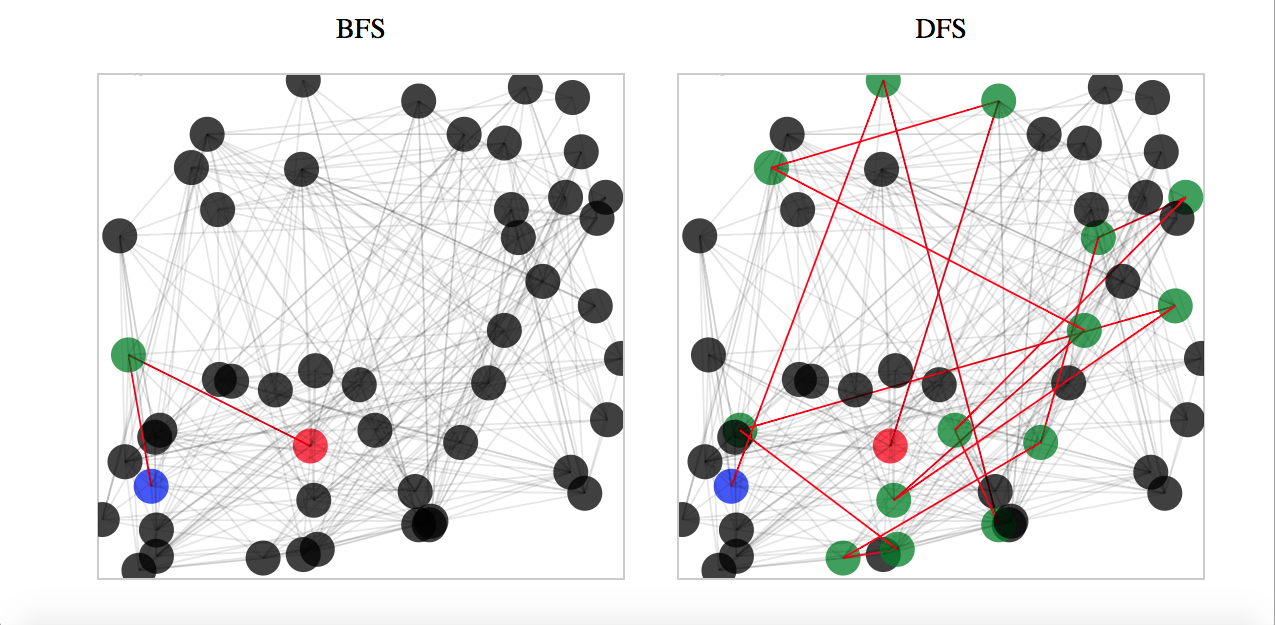
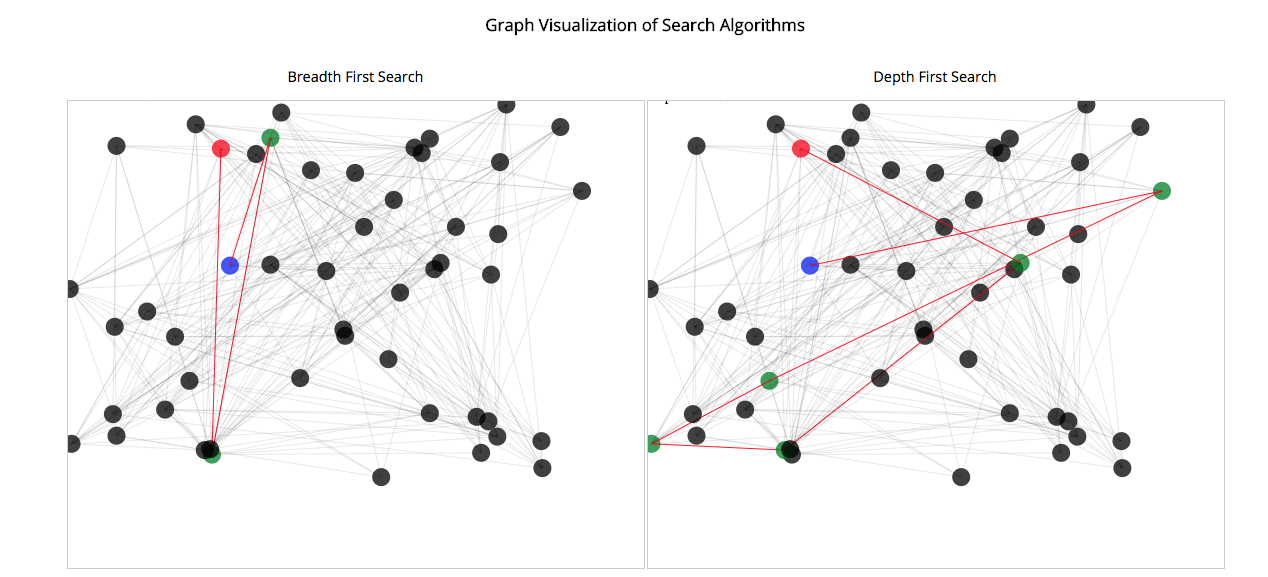
changed screenshot in readme, restyled code

diff --git a/index.html b/index.html
@@ -1,22 +1,23 @@
 <!DOCTYPE html>
-<html style="width:100%; height:100%">
+<html>
     <head>
         <link rel="stylesheet" type= "text/css" href="./style.css">
+        <link href="https://fonts.googleapis.com/css?family=Open+Sans" rel="stylesheet">
         <script src="https://d3js.org/d3.v4.min.js"></script>
         <script type="text/javascript" src="http://ajax.googleapis.com/ajax/libs/jquery/1.7.0/jquery.min.js"></script>
         <script src="./graphGenerator.js"></script>
         <script src="./queue.js"></script>
     </head>
 
-    <body style="width:100%; height:100%">
-        <!--<h3 id="title">Graph Visualization</h3>-->
-        <div style= "width: 100%; height: 100%; text-align: center">
-            <div style= "display: inline-block; height: 100%; width: 45%">
-                <p>BFS</p>
+    <body>
+        <h3 id="title">Graph Visualization of Search Algorithms</h3>
+        <div class='search'>
+            <div class='graph-container'>
+                <p>Breadth First Search</p>
                 <svg id= "graphSpace0" height= "80%"></svg>
             </div>
-            <div style= "display: inline-block; height:100%; width:45%">
-                <p>DFS</p>
+            <div class='graph-container'>
+                <p>Depth First Search</p>
                 <svg id= "graphSpace1" height= "80%"></svg>
             </div>
         </div>
@@ -40,11 +41,11 @@
                     endNode= settled.get(endNode);
                     if (endNode != null) {
                         var id= x * endNode.cx + y * endNode.cy;
-                        if (type === "d") {
-                            id= "d"+ id;
+                        if (type === "depth") {
+                            id= "depth"+ id;
                         }
                         else {
-                            id= "b"+ id;
+                            id= "breadth"+ id;
                         }
                         $("#"+id).css("stroke", "red");
                         $("#"+id).css("opacity", 1);
@@ -61,11 +62,11 @@
                 frontier.push(startNode);
                 while (!frontier.isEmpty()) {
                     var f= frontier.pop();
-                    if (f == endNode) {return endDisplay(path(settled, f, "d"), "d");}
+                    if (f == endNode) {return endDisplay(path(settled, f, "depth"), "depth");}
                     neighbors= graph.get(f);
                     for (let n of neighbors) {
                         var id= (f.cx * n.cx) + (f.cy * n.cy);
-                        id= "d"+ id;
+                        id= "depth"+ id;
                         $("#"+id).css("stroke", "magenta");
                         $("#"+id).css("opacity", 1);
                         await sleep(30);
@@ -89,11 +90,11 @@
                 frontier.enqueue(startNode, 0);
                 while (!frontier.isEmpty()) {
                     var f= frontier.dequeue();
-                    if (f == endNode) {return endDisplay(path(settled, f, "b"), "b");}
+                    if (f == endNode) {return endDisplay(path(settled, f, "breadth"), "breadth");}
                     neighbors= graph.get(f);
                     for (let n of neighbors) {
                         var id= (f.cx * n.cx) + (f.cy * n.cy);
-                        id= "b"+ id;
+                        id= "breadth"+ id;
                         $("#"+id).css("stroke", "magenta");
                         $("#"+id).css("opacity", 1);
                         await sleep(30);
@@ -119,21 +120,21 @@
             function main(nodes, graph) {
                 //create two identical graphs for search comparison
                 var svgBFS= d3.select("#graphSpace0");
-                svgBFS.append("text").text("BFS");
+                svgBFS.append("text").text("Breadth First Search");
                 var svgDFS= d3.select("#graphSpace1");
-                svgDFS.append("text").text("DFS");
+                svgDFS.append("text").text("Depth First Search");
                 for (var [node, edges] of graph) {
                     nodes.push(node);
                     var cx= node.cx;
                     var cy= node.cy;
                     svgBFS.append("circle")
-                    .attr("id", "b" + cantorPairing(cx, cy))
+                    .attr("id", "breadth" + cantorPairing(cx, cy))
                     .attr("cx", cx)
                     .attr("cy", cy)
                     .attr("r", 10)
                     .attr("fill", "black");
                     svgDFS.append("circle")
-                    .attr("id", "d" + cantorPairing(cx, cy))
+                    .attr("id", "depth" + cantorPairing(cx, cy))
                     .attr("cx", cx)
                     .attr("cy", cy)
                     .attr("r", 10)
@@ -145,7 +146,7 @@
                         var id= (cx * n.cx) + (cy * n.cy);
                         if (!ids.has(id)) {
                             line_b.append("line")
-                            .attr("id", "b"+ id)
+                            .attr("id", "breadth"+ id)
                             .attr("x1", cx)
                             .attr("y1", cy)
                             .attr("x2", n.cx)
@@ -153,7 +154,7 @@
                             .attr("stroke", "black")
                             .attr("opacity", .1)
                             line_d.append("line")
-                            .attr("id", "d"+ id)
+                            .attr("id", "depth"+ id)
                             .attr("x1", cx)
                             .attr("y1", cy)
                             .attr("x2", n.cx)
@@ -179,11 +180,11 @@
                 for (var i= 0; i < path.length; i++) {
                     var node= path[i];
                     var id= cantorPairing(node.cx, node.cy);
-                    if (type === ("d")) {
-                        id= "d"+ id;
+                    if (type === ("depth")) {
+                        id= "depth"+ id;
                     }
                     else {
-                        id= "b"+ id;
+                        id= "breadth"+ id;
                     }
                     if (i == path.length-1) {
                         $("#"+id).css("fill", "red");

diff --git a/style.css b/style.css
@@ -1,3 +1,32 @@
-svg { border: solid #ccc 1px; display: block; margin: auto}
-h3 {text-align: center}
-circle {fill-opacity: .75;}
+svg {
+  border: solid #ccc 1px;
+  display: block;
+  width: 100%;
+  margin: auto
+}
+
+h3, p {
+  text-align: center;
+  font-family: 'Open Sans', sans-serif;
+}
+
+circle {
+  fill-opacity: .75;
+}
+
+html, body {
+  width:100%;
+  height:100%
+}
+
+.search {
+  width: 100%;
+  height: 100%;
+  text-align: center
+}
+
+.graph-container {
+  display: inline-block;
+  height: 100%;
+  width: 45%
+}

diff --git a/graphGenerator.js b/graphGenerator.js
@@ -14,8 +14,8 @@ class Node {
 }
 
 var makeGraph= function (size) {
-  var svgX= $("svg").css("width");
-  var svgY= $("svg").css("height");
+  var svgX= $('svg').css('width');
+  var svgY= $('svg').css('height');
   svgX= parseInt(svgX.substring(0, svgX.length-2));
   svgY= parseInt(svgY.substring(0, svgY.length-2));
   var graph= new Map();
